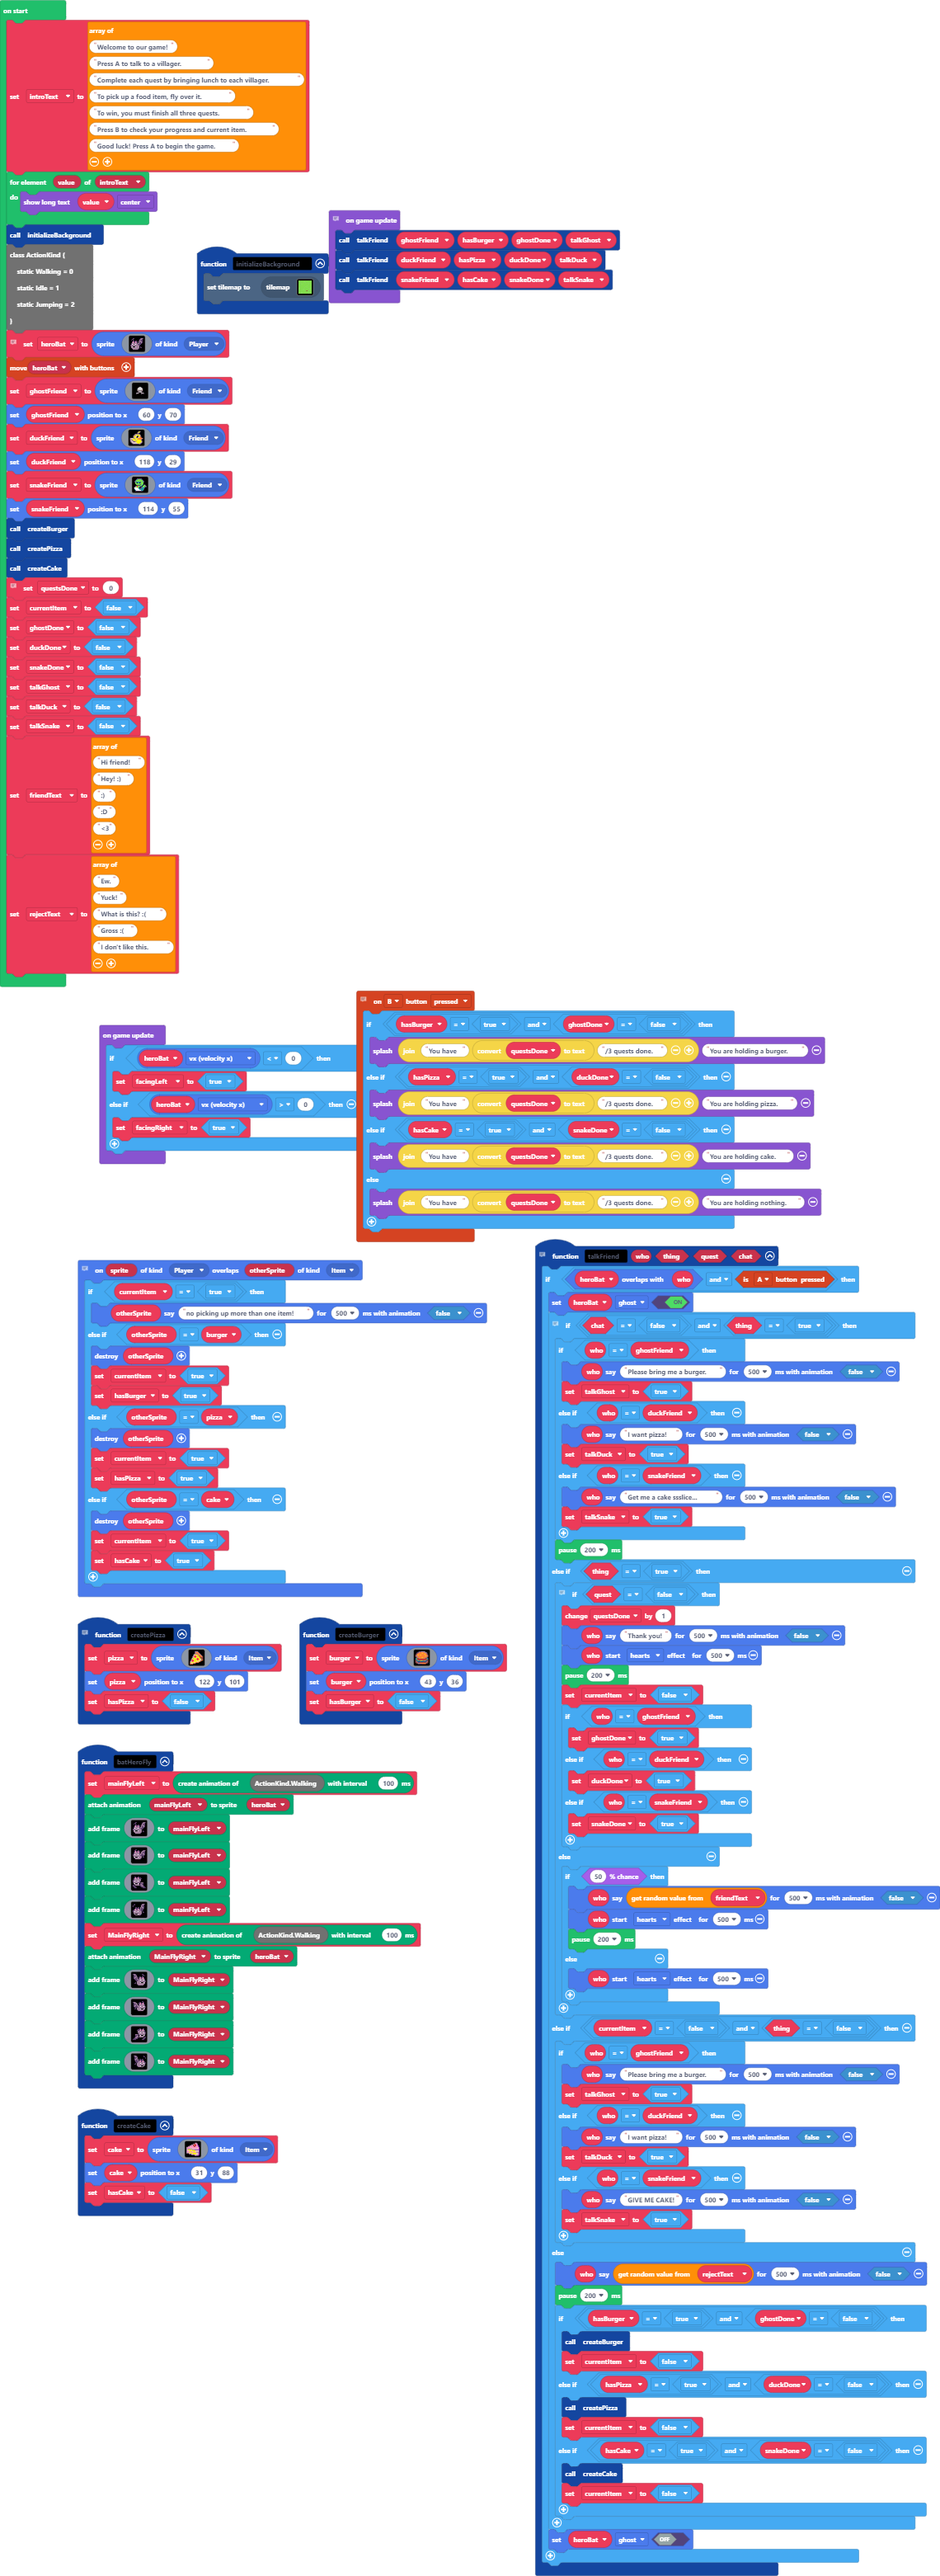
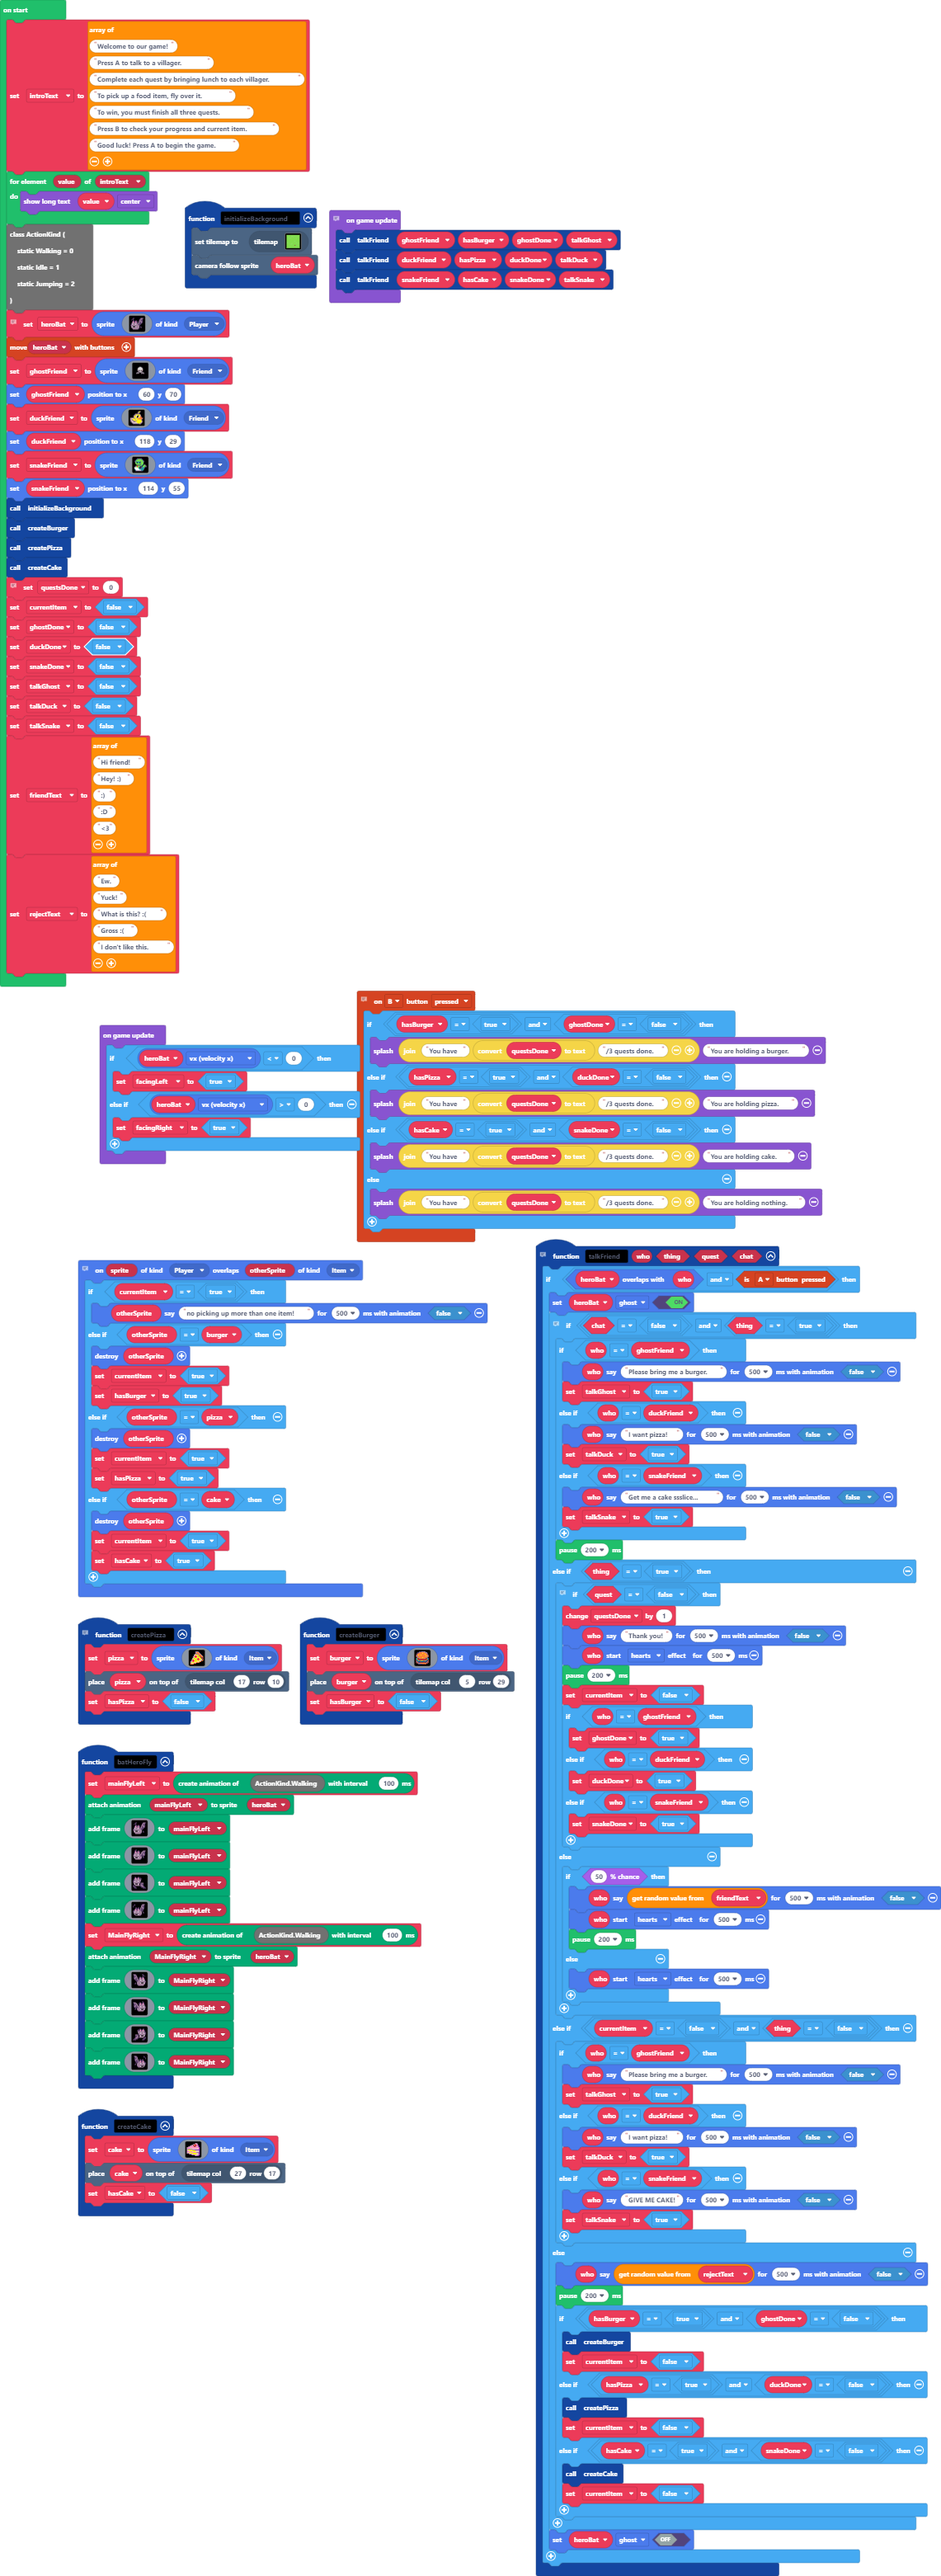
moved item sprites to loc on tilemap

diff --git a/main.ts b/main.ts
@@ -52,7 +52,7 @@ function createPizza () {
         4 d d d 4 4 4 . . . . . . . . . 
         4 4 4 4 . . . . . . . . . . . . 
         `, SpriteKind.Item)
-    pizza.setPosition(122, 101)
+    tiles.placeOnTile(pizza, tiles.getTileLocation(17, 10))
     hasPizza = false
 }
 function createBurger () {
@@ -74,7 +74,7 @@ function createBurger () {
         . e e b b 4 4 4 4 4 4 4 4 e e . 
         . . . c c c c c e e e e e . . . 
         `, SpriteKind.Item)
-    burger.setPosition(43, 36)
+    tiles.placeOnTile(burger, tiles.getTileLocation(5, 29))
     hasBurger = false
 }
 function batHeroFly () {
@@ -246,11 +246,12 @@ function createCake () {
         . . . . . . b b b b 3 d d d b a 
         . . . . . . . . . . b b b a a . 
         `, SpriteKind.Item)
-    cake.setPosition(31, 88)
+    tiles.placeOnTile(cake, tiles.getTileLocation(27, 17))
     hasCake = false
 }
 function initializeBackground () {
     tiles.setCurrentTilemap(tilemap`level1`)
+    scene.cameraFollowSprite(heroBat)
 }
 // talk to friend sprite
 function talkFriend (who: Sprite, thing: boolean, quest: boolean, chat: boolean) {
@@ -361,7 +362,6 @@ let introText = [
 for (let value of introText) {
     game.showLongText(value, DialogLayout.Center)
 }
-initializeBackground()
 class ActionKind {
     static Walking = 0
     static Idle = 1
@@ -452,6 +452,7 @@ snakeFriend = sprites.create(img`
     . . c c c c c c c c c f . . . . 
     `, SpriteKind.Friend)
 snakeFriend.setPosition(114, 55)
+initializeBackground()
 createBurger()
 createPizza()
 createCake()
